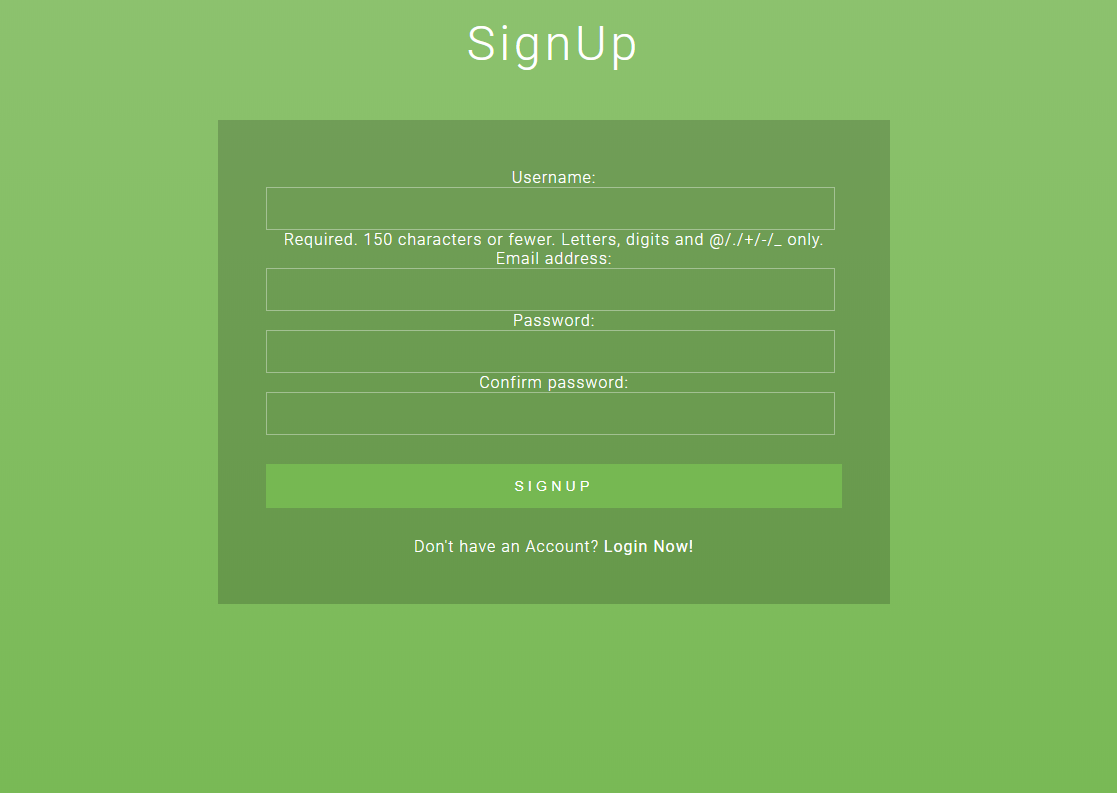
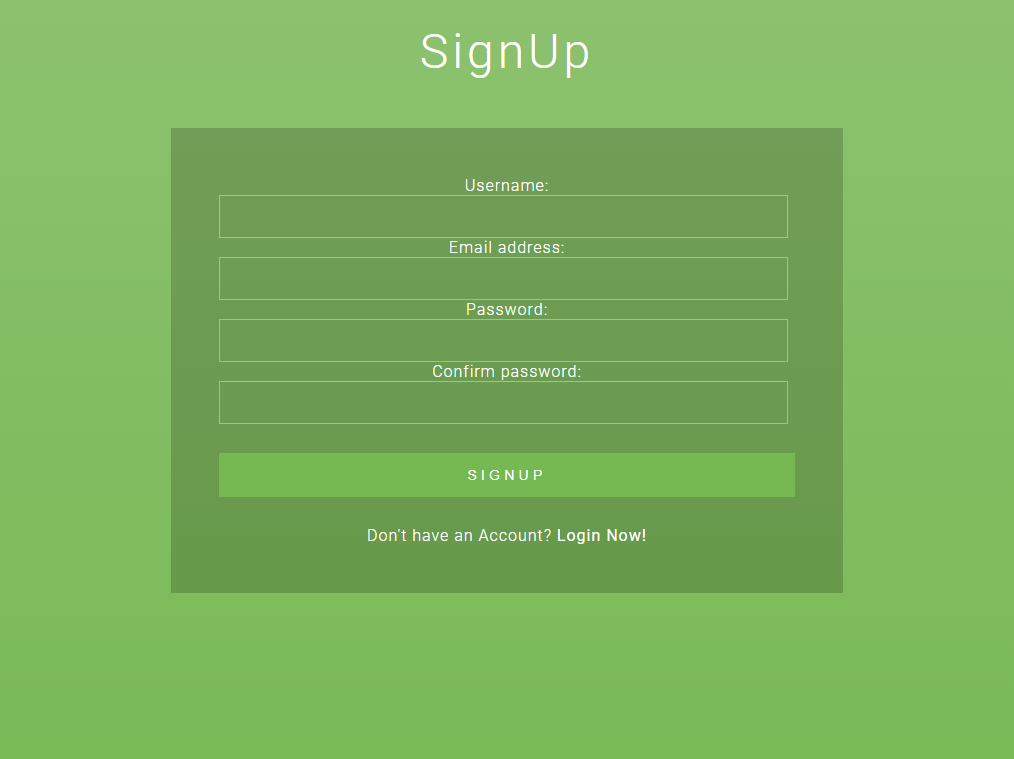
add sign up image

diff --git a/login_signup/Accounts/forms.py b/login_signup/Accounts/forms.py
@@ -25,6 +25,7 @@ class UserLoginForm(forms.Form):
 
 
 class UserRegistrationForm(forms.ModelForm):
+    username = forms.CharField()
     email = forms.EmailField(label='Email address')
     password = forms.CharField(widget=forms.PasswordInput)
     confirm_password = forms.CharField(widget=forms.PasswordInput)
